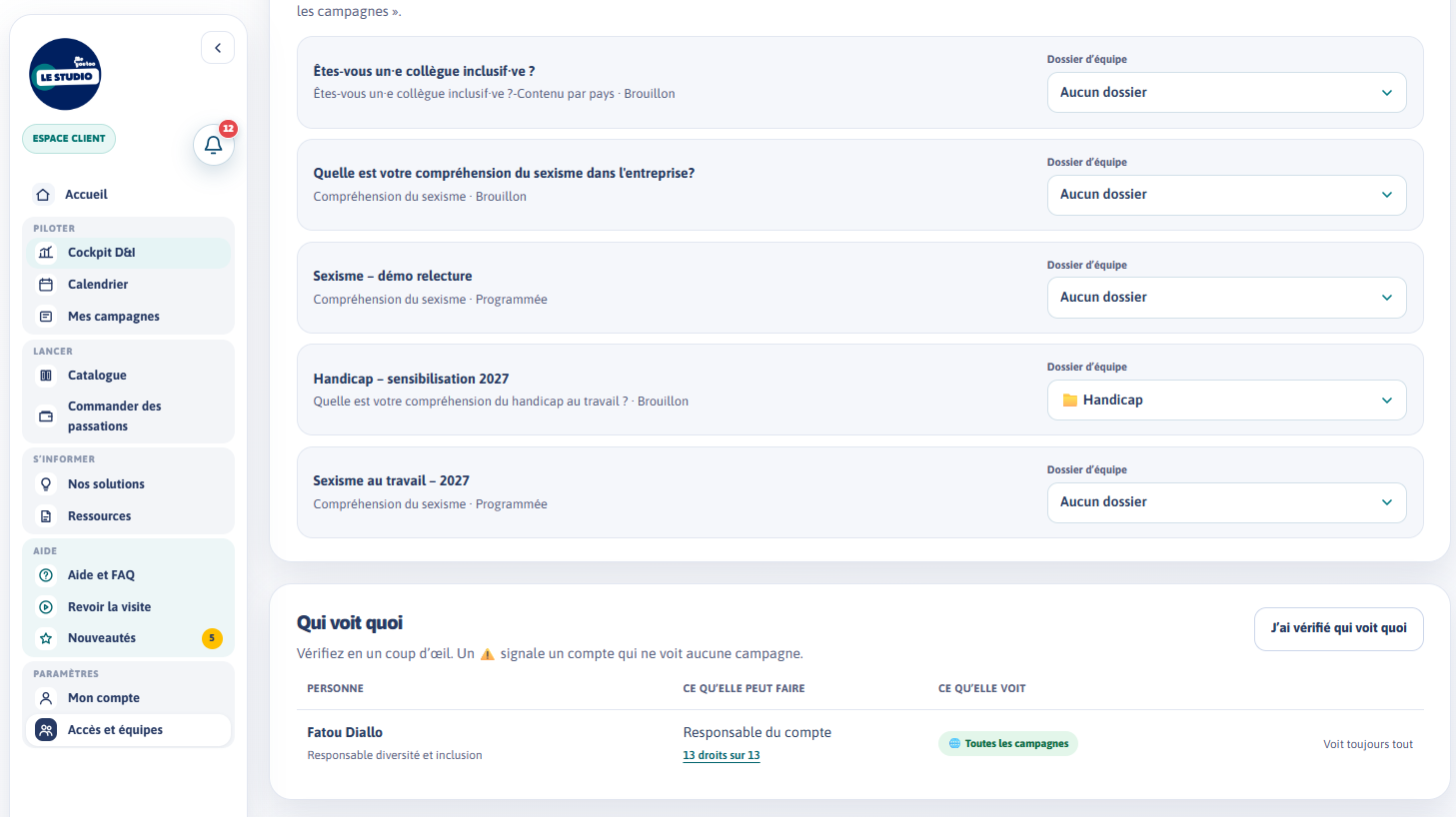
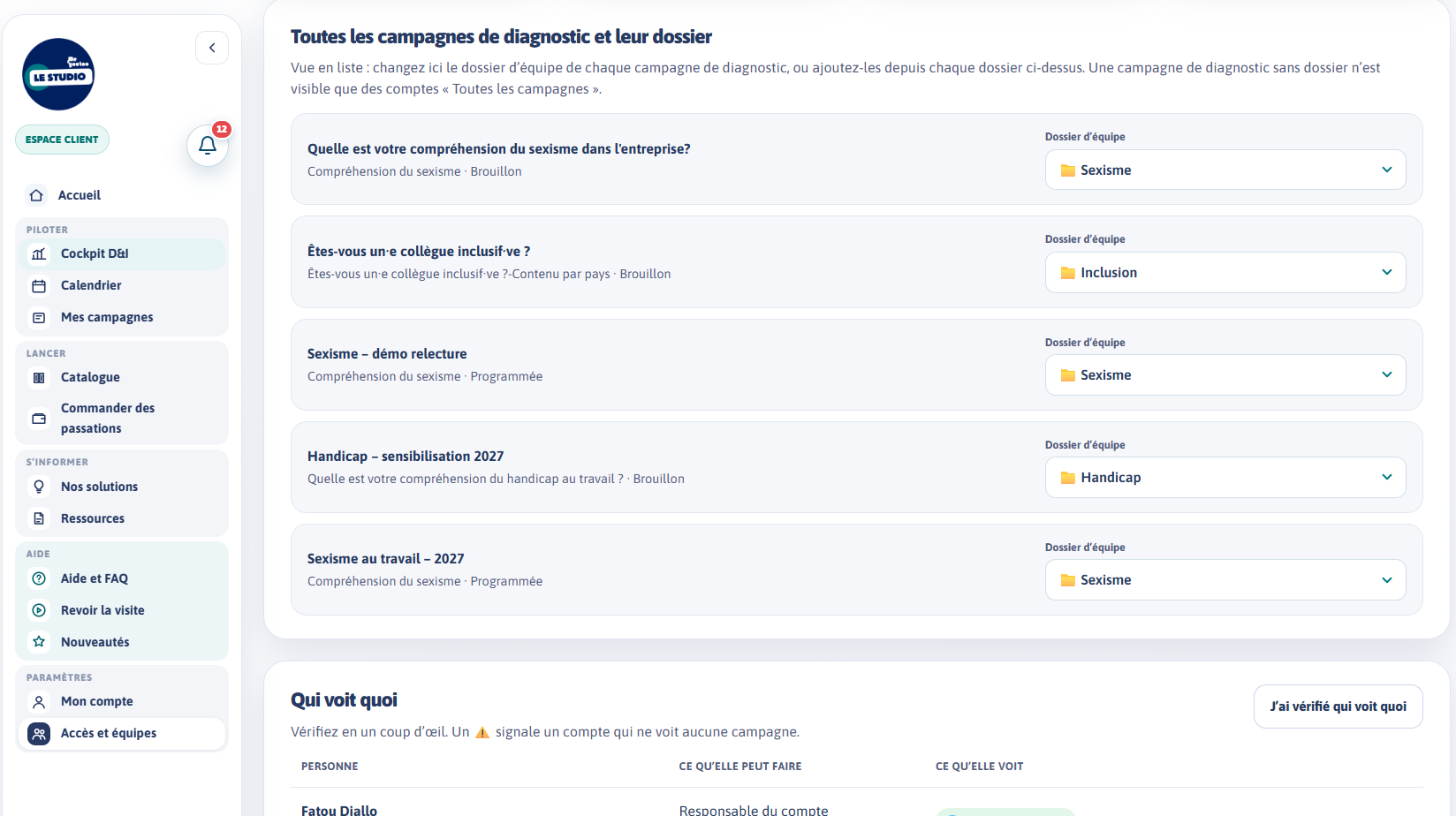
Tuto compte et accès : écrans 5 à 8 refaits avec le nouvel encart, plans 11 et 12 ajustés

diff --git a/tutos/acces/index.html b/tutos/acces/index.html
@@ -11,7 +11,7 @@
 <div class="tuto" id="tuto"></div>
 <script>
 // Captures du 4 novembre 2026 : compte de démonstration Fatou Diallo, Entreprise Exemple (page entière à 88 %, 75 % pour la fenêtre « Ajouter un accès ») ; e-mails masqués.
-// La fenêtre « Ajouter un accès » a été ouverte puis annulée. Capture 8 (5 novembre 2026) : « Qui voit quoi » avec Inès Morel, collègue fictive limitée au dossier Handicap.
+// La fenêtre « Ajouter un accès » a été ouverte puis annulée. Captures 5 à 8 (5 novembre 2026, après-midi) : nouvel encart et liste des campagnes de diagnostic ; « Qui voit quoi » avec Inès Morel, collègue fictive limitée au dossier Handicap. Un compte de test est masqué et les dossiers de test sont renommés à l’affichage.
 // Cadres en % de la capture : [gauche, haut, largeur, hauteur]. Pour caler la voix : audio:'voix.mp3' et « at » (secondes) sur chaque plan.
 window.TUTO={
   eyebrow:'Tutoriel · Compte et accès',
@@ -27,10 +27,10 @@ window.TUTO={
     {img:'ecran-3.png',box:[35.4,49,29.2,43],text:'Les droits s’ajustent un par un si besoin. Cliquez ensuite sur « Créer et inviter » pour ouvrir son compte et l’inviter.'},
     {img:'ecran-4.png',box:[20.4,29.4,77.4,13.4],text:'Dans « Accès et équipes », trois principes : le niveau d’accès dit ce qu’une personne peut faire, le périmètre ce qu’elle voit, et les dossiers regroupent campagnes et actions.'},
     {img:'ecran-5.png',box:[29,8.8,42.8,75.9],text:'Il y a quatre niveaux : responsable du compte, gestionnaire de campagnes, contributeur et lecture seule. Ce tableau compare leurs droits, que vous pouvez ajuster personne par personne.'},
-    {img:'ecran-6.png',box:[18.4,27.2,19.6,71.9],text:'Créez un dossier par sujet ou par équipe, par exemple Handicap, puis ajoutez-y vos campagnes et vos actions du Cockpit. L’équipe du dossier les voit.'},
-    {img:'ecran-6.png',box:[18.4,12.2,81.2,13.2],text:'Attention : une campagne sans dossier n’est visible que des comptes « Toutes les campagnes ». Le Studio vous signale ce qui reste à ranger.'},
-    {img:'ecran-7.png',box:[20.4,4.5,77.4,61.4],text:'Vous pouvez aussi changer le dossier de chaque campagne directement dans cette liste : c’est le moyen le plus rapide de tout ranger d’un coup.'},
-    {img:'ecran-8.png',box:[18.4,46.2,81.2,37.8],text:'« Qui voit quoi » résume chaque compte : ce qu’il peut faire et ce qu’il voit. Un signal d’alerte repère tout compte qui ne voit aucune campagne.'},
+    {img:'ecran-6.png',box:[18.1,58.8,19.6,41.2],text:'Créez un dossier par sujet ou par équipe, par exemple Handicap, puis ajoutez-y vos campagnes et vos actions du Cockpit. L’équipe du dossier les voit.'},
+    {img:'ecran-6.png',box:[18.1,11.3,81.5,36.2],text:'Attention : une campagne ou une action sans dossier n’est visible que des comptes « Toutes les campagnes ». Le Studio vous signale ce qui reste à ranger : choisissez simplement un dossier sur chaque ligne.'},
+    {img:'ecran-7.png',box:[20,3,77.7,72.5],text:'Vous pouvez aussi changer le dossier de chaque campagne directement dans cette liste, et même y créer un nouveau dossier : c’est le moyen le plus rapide de tout ranger d’un coup.'},
+    {img:'ecran-8.png',box:[18.1,42.6,81.5,37.7],text:'« Qui voit quoi » résume chaque compte : ce qu’il peut faire et ce qu’il voit. Un signal d’alerte repère tout compte qui ne voit aucune campagne.'},
     {img:'ecran-4.png',box:[20.4,82.5,12.4,13],text:'Me&YouToo peut vous suggérer des personnes à intégrer. Vous décidez : aucun e-mail ne leur est envoyé tant que vous ne cliquez pas sur « Envoyer l’invitation ».'},
     {img:'ecran-4.png',box:[18.4,71,81.2,27.5],text:'La frise suit votre paramétrage en six étapes, jusqu’à la vérification de « Qui voit quoi ». Une étape repasse à faire si la situation change, par exemple quand une personne arrive.'}
   ],
